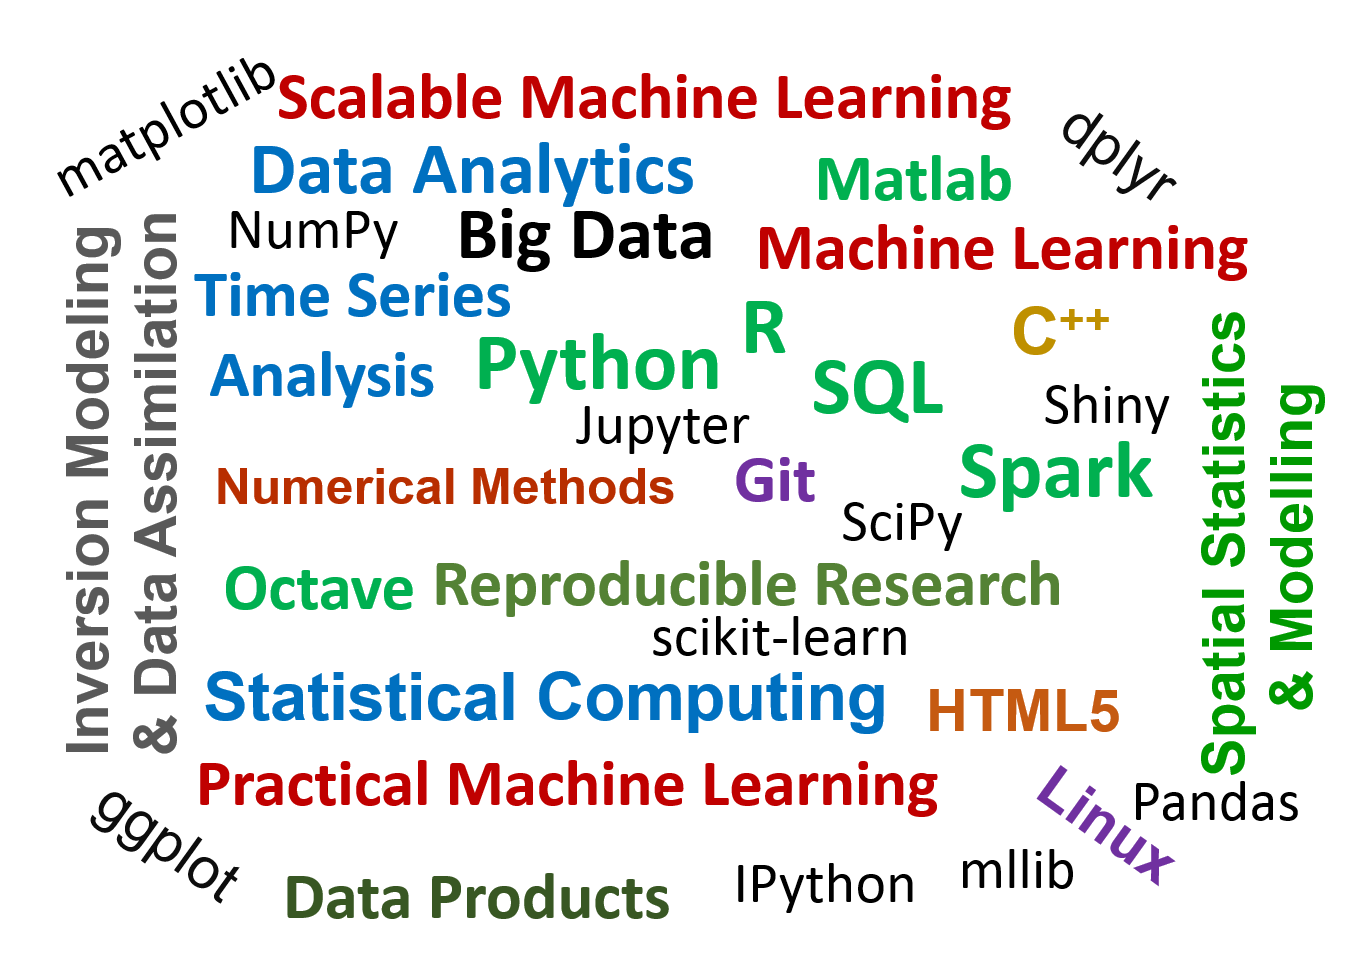
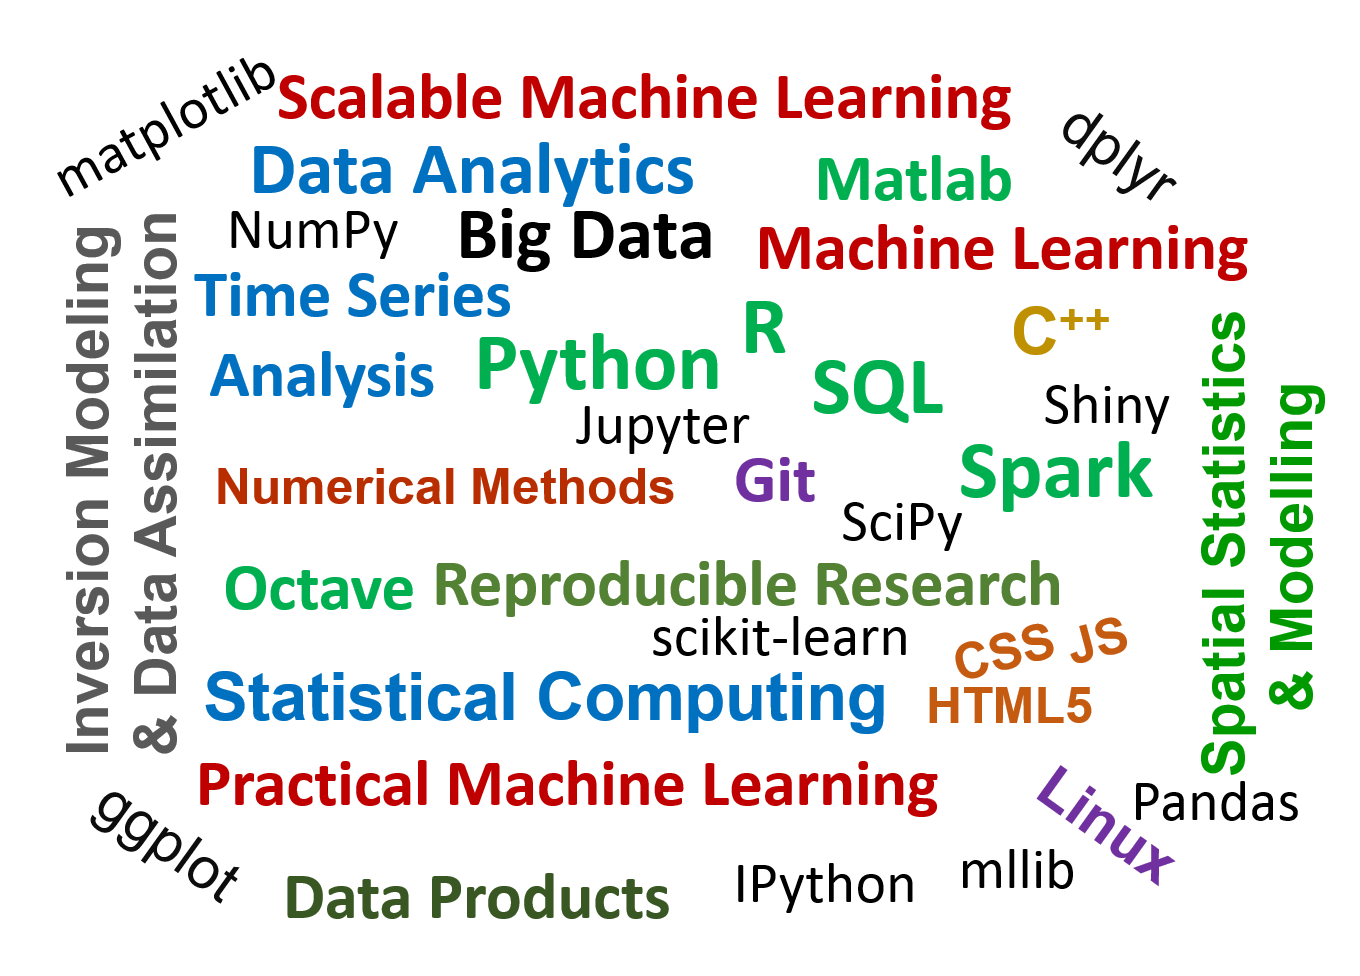
minor

Changed region(s): [[0.6794, 0.6148, 0.8338, 0.7684]]

diff --git a/certificates.html b/certificates.html
@@ -141,6 +141,8 @@
 						<p >Linux </p> <br/> 
 						<p >C<sup>++</sup> </p> <br/> 
 						<p >Fortran </p> <br/> 
+						<p >JavaScript</p> <br/> 
+						<p >CSS</p> <br/> 
 					 
 			 	
 				  		<a style="text-decoration:none;color:#4D704D" href="http://ferret.pmel.noaa.gov/Ferret/">Ferret</a> </br></br>
